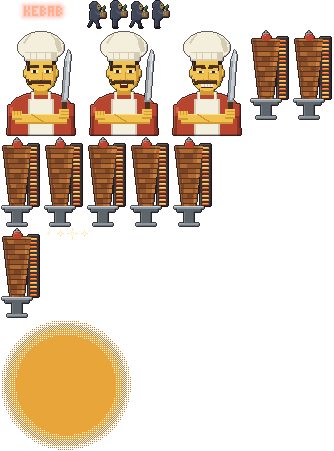
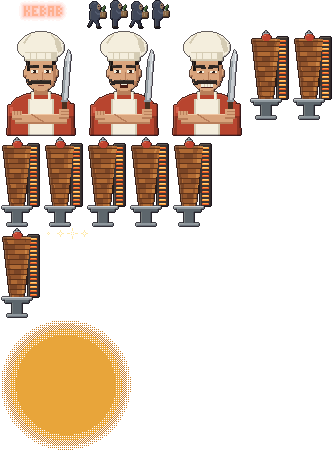
Redraw the crowd at the bar and Chef the way the founders are drawn
Nobody is yellow any more. The twelve at the table have skin of every
shade, hair that falls its own way (two of the founders' cuts, curls, a
knot, long hair, a beanie, a cap, two bald heads), the founders' beard, and
something on each top to tell it from the next. They are still nobody in
particular.

Chef has a skin of his own, black hair and a glint in each eye in the three
pictures of the intro, and his portrait is rebuilt on the head the other
faces share: turned three-quarters and cut by the frame, under the same
toque, brows and moustache, with the apron straps and the knife.

The walker of the intro loses the yellow too, under the hood.

diff --git a/art/bar.px.js b/art/bar.px.js
@@ -315,56 +315,108 @@ const BAR_GRIN = [...gladEyes(0, 1), grid(5, 9, "MxxM\n.MM.")]
   }
 
   // The rest of the table: nobody in particular, and a bit of everybody who
-  // turns up. Black T-shirts, beards, one cap. Their faces are yellow: unlike
-  // the members, nobody here is a likeness.
-  const HAIR = { dark: "#3a2a22", black: "#2b2530", brown: "#5a3a24", blond: "#d8b060", ginger: "#b8602c", grey: "#8f8d8a" }
-  const TEE = { black: "#3a3a44", white: "#e8e2d0", olive: "#7c7c5e", navy: "#34477a", sky: "#a9c4e0", grey: "#858d98", wine: "#8a3a48", green: "#4c8a5c" }
+  // turns up. They are drawn like the founders: skin of every shade, hair that
+  // falls its own way, a beard here and there, and something to tell each top
+  // from the next. Unlike the founders, nobody here is a likeness.
+  const SKIN = { fair: "#f0c6a8", light: "#e4b08c", tan: "#d09a74", olive: "#bd8862", brown: "#9a6646", dark: "#6f4832" }
+  const LOCKS = { dark: "#3a2a22", black: "#2b2530", brown: "#5a3a24", blond: "#d8b060", ginger: "#b8602c", grey: "#8f8d8a" }
+  const TOP = { black: "#3a3a44", white: "#e8e2d0", olive: "#7c7c5e", navy: "#34477a", sky: "#a9c4e0", grey: "#858d98", wine: "#8a3a48", green: "#4c8a5c" }
+  /** How the hair falls, over the top six rows of the head: two of the founders' cuts, and curls. */
+  const CUT = {
+    swept: HAIR.david,
+    mop: HAIR.christophe,
+    curls: {
+      front: `
+        .KLKKLKKLKKLK.
+        KLKKLKKLKKLKKK
+        KKLKKLKKLKKLKK
+        KLKKLKKLKKLKKK
+        KKKKKKKKKKKKKK
+        KKZHHZHHHZHHKK`,
+      back: `
+        .KLKKLKKLKKLK.
+        KLKKLKKLKKLKKK
+        KKLKKLKKLKKLKK
+        KLKKLKKLKKLKKK
+        KKLKKLKKLKKLKK
+        KLKKLKKLKKLKKK`,
+    },
+  }
+  // What each one wears on top of the shared body. Everything is placed on the
+  // figure, whose head starts one row down.
   const CROWD = {
     // Facing you, behind the table.
-    c1: { view: "f", hair: HAIR.dark, shirt: TEE.black, beard: true },
-    c2: { view: "f", hair: HAIR.brown, shirt: TEE.white, glasses: true },
-    c3: { view: "f", bald: true, shirt: TEE.black, beard: HAIR.brown },
-    c4: { view: "f", hair: HAIR.ginger, shirt: TEE.sky },
-    c5: { view: "f", hair: HAIR.black, shirt: TEE.olive, beard: true },
-    c6: { view: "f", hair: HAIR.blond, shirt: TEE.wine, long: true },
+    // A black T-shirt with a small white mark.
+    c1: { view: "f", skin: SKIN.tan, hair: LOCKS.black, cut: "mop", shirt: TOP.black, beard: true, worn: [grid(8, 14, "xx")] },
+    // Glasses, and a shirt with its collar open.
+    c2: {
+      view: "f", skin: SKIN.fair, hair: LOCKS.brown, cut: "swept", shirt: TOP.white,
+      worn: [grid(5, 12, "cHHc\n.cc."), rect(5, 7, 4, 1, "s"), px(2, 7, "s"), px(11, 7, "s")],
+    },
+    // Bald, bearded, in a hoodie with its cords hanging.
+    c3: { view: "f", skin: SKIN.brown, bald: true, shirt: TOP.black, beard: LOCKS.black, worn: [grid(5, 13, "x..x\nx..x")] },
+    // Ginger curls and a striped top.
+    c4: { view: "f", skin: SKIN.fair, hair: LOCKS.ginger, cut: "curls", shirt: TOP.sky, worn: [rect(3, 14, 8, 1, "x"), rect(3, 16, 8, 1, "x")] },
+    // A mustard beanie, and an overshirt open on a white T-shirt.
+    c5: {
+      view: "f", skin: SKIN.dark, hair: LOCKS.black, shirt: TOP.olive, beard: true, hat: "#d9a441",
+      worn: [grid(5, 12, "xxxx\n.xx.\n.xx.\n.xx.\n.xx.\n.xx.\n.xx."), rect(2, 0, 10, 1, "y"), rect(1, 1, 12, 4, "y"), rect(1, 4, 12, 1, "w")],
+    },
+    // Long fair hair down over the shoulders, and a thin gold chain.
+    c6: {
+      view: "f", skin: SKIN.light, hair: LOCKS.blond, shirt: TOP.wine,
+      worn: [grid(5, 13, "a..a\n.aa."), rect(0, 6, 2, 8, "K"), rect(12, 6, 2, 8, "K"), rect(0, 8, 1, 4, "L"), rect(0, 14, 2, 2, "Z"), rect(12, 14, 2, 2, "Z")],
+    },
     // Their backs to you, in front of it.
-    c7: { view: "b", hair: HAIR.dark, shirt: TEE.navy, cap: "#ece6d6" },
-    c8: { view: "b", hair: HAIR.grey, shirt: TEE.sky },
-    c9: { view: "b", hair: HAIR.black, shirt: TEE.black },
-    c10: { view: "b", hair: HAIR.dark, shirt: TEE.green, long: true },
-    c11: { view: "b", bald: true, shirt: TEE.grey },
-    c12: { view: "b", hair: HAIR.blond, shirt: TEE.white },
+    // A pale cap, worn the right way round.
+    c7: {
+      view: "b", skin: SKIN.light, hair: LOCKS.dark, shirt: TOP.navy, hat: "#ece6d6",
+      worn: [rect(2, 0, 10, 1, "y"), rect(1, 1, 12, 3, "y"), rect(1, 3, 12, 1, "w"), rect(5, 4, 4, 1, "w")],
+    },
+    // Grey hair, and the collar of a shirt.
+    c8: { view: "b", skin: SKIN.fair, hair: LOCKS.grey, shirt: TOP.sky, worn: [rect(4, 12, 6, 1, "D")] },
+    // Black hair tied up in a knot.
+    c9: { view: "b", skin: SKIN.olive, hair: LOCKS.black, shirt: TOP.black, worn: [grid(5, 0, ".KK.\nKLLK")] },
+    // Long dark hair down the back.
+    c10: {
+      view: "b", skin: SKIN.brown, hair: LOCKS.dark, shirt: TOP.green,
+      worn: [rect(1, 10, 12, 4, "K"), rect(2, 14, 10, 1, "Z"), rect(4, 10, 1, 4, "L"), rect(9, 11, 1, 3, "L")],
+    },
+    // Bald, with a crease at the back of the neck.
+    c11: { view: "b", skin: SKIN.tan, bald: true, shirt: TOP.grey, worn: [rect(4, 9, 6, 1, "Y")] },
+    // Fair hair swept over, and a hood down the back.
+    c12: { view: "b", skin: SKIN.fair, hair: LOCKS.blond, cut: "swept", shirt: TOP.white, worn: [grid(4, 12, "cCCCCc\n.cCCc.\n..cc..")] },
   }
   for (const [id, look] of Object.entries(CROWD)) {
-    const hair = look.bald ? [BODY.H, BODY.I, BODY.Y] : [look.hair, lighten(look.hair, 0.25), darken(look.hair, 0.3)]
-    const beard = look.beard === true ? look.hair : look.beard
+    const skin = [look.skin, lighten(look.skin, 0.3), darken(look.skin, 0.2)]
+    // A bald head is skin all the way up.
+    const hair = look.bald ? skin : [look.hair, lighten(look.hair, 0.25), darken(look.hair, 0.3)]
+    const whisker = look.beard === true ? look.hair : look.beard
     pal({
       ...base,
       ...beer,
+      H: tint(skin[0]),
+      I: tint(skin[1]),
+      Y: tint(skin[2]),
+      m: tint(darken(look.skin, 0.45)),
       K: tint(hair[0]),
       L: tint(hair[1]),
       Z: tint(hair[2]),
       C: tint(look.shirt),
       c: tint(darken(look.shirt, 0.24)),
       D: tint(lighten(look.shirt, 0.22)),
-      ...(beard ? { B: tint(beard), F: tint(darken(beard, 0.25)) } : {}),
-      ...(look.cap ? { y: tint(look.cap), w: tint(darken(look.cap, 0.2)) } : {}),
+      ...(whisker ? { B: tint(whisker), F: tint(darken(whisker, 0.25)) } : {}),
+      ...(look.hat ? { y: tint(look.hat), w: tint(darken(look.hat, 0.2)) } : {}),
     })
-    sprite(`_bar_${id}`, { mx: true }, look.view === "f" ? BAR_BUST : BACK)
-    const body = [stamp(`_bar_${id}`, 0, 1)]
-    let worn = []
-    if (look.view === "f") {
-      // The beard runs along the jaw and under the mouth.
-      if (beard) body.push(rect(1, 9, 2, 1, "B"), rect(11, 9, 2, 1, "B"), rect(2, 10, 4, 1, "B"), rect(8, 10, 4, 1, "B"), rect(3, 11, 8, 1, "F"))
-      // Long hair comes down over the shoulders.
-      if (look.long) worn.push(rect(0, 5, 2, 7, "K"), rect(12, 5, 2, 7, "K"), rect(0, 12, 2, 2, "Z"), rect(12, 12, 2, 2, "Z"))
-      if (look.glasses) worn.push(px(3, 7, "x"), px(5, 7, "x"), px(3, 8, "x"), px(5, 8, "x"), px(8, 7, "x"), px(10, 7, "x"), px(8, 8, "x"), px(10, 8, "x"), rect(6, 7, 2, 1, "s"), px(2, 7, "s"), px(11, 7, "s"))
-    } else {
-      if (look.long) worn.push(rect(1, 10, 12, 3, "K"), rect(2, 13, 10, 1, "Z"))
-      if (look.cap) worn.push(rect(2, 1, 10, 3, "y"), rect(2, 3, 10, 1, "w"), rect(5, 4, 4, 1, "w"))
-    }
-    figure(`bar_${id}_0`, { w: 14, h: 19 }, base.k, ...body, ...worn)
-    figure(`bar_${id}_1`, { w: 17, h: 19 }, base.k, ...body, ...(look.view === "f" ? BAR_GRIN : []), ...BAR_RAISED, ...worn)
+    const front = look.view === "f"
+    sprite(`_bar_${id}`, { mx: true }, front ? BAR_BUST : BACK)
+    const body = [
+      stamp(`_bar_${id}`, 0, 1),
+      ...(look.cut ? [grid(0, 1, CUT[look.cut][front ? "front" : "back"])] : []),
+      ...(front && whisker ? whiskers("front", 0, 1) : []),
+    ]
+    figure(`bar_${id}_0`, { w: 14, h: 19 }, base.k, ...body, ...look.worn)
+    figure(`bar_${id}_1`, { w: 17, h: 19 }, base.k, ...body, ...(front ? BAR_GRIN : []), ...BAR_RAISED, ...look.worn)
   }
 }
 

diff --git a/art/intro.px.js b/art/intro.px.js
@@ -471,7 +471,7 @@ sprite("intro_neon", { w: 76 + NEON_REACH * 2, h: 12 + NEON_REACH * 2 }, (c) => 
   const look = {
     k: "#1c1a20",
     h: "#506078", j: "#6c7d98", d: "#3a475c", f: "#c2b28e",
-    H: BODY.H, Y: BODY.Y,
+    H: "#e0aa88", Y: "#b98462",
     B: "#c09058", b: "#8f6638", t: "#e6cb92",
     g: "#6fb257", G: "#447f3c", x: "#f4eedd",
     Q: "#48526a", U: "#30384a", S: "#2a2422",
@@ -537,12 +537,17 @@ sprite("intro_neon", { w: 76 + NEON_REACH * 2, h: 12 + NEON_REACH * 2 }, (c) => 
 // Chef, as you meet him: arms crossed, the long knife in his fist
 // ---------------------------------------------------------------------------
 
-pal({
-  ...BODY,
-  C: "#b8452f", c: "#8c3423", D: "#d4604a",
+// He is nobody's likeness, and is painted like the founders: a skin of his
+// own, black hair, and a glint in each eye.
+const CHEF = {
+  H: "#d9a47c", I: "#efc6a2", Y: "#b87e5a", // skin
+  K: "#2e2622", L: "#4c4038", Z: "#1c1614", // hair, brows and moustache
+  m: "#8a4a3a", M: "#4a1c14",
+  C: "#b8452f", c: "#8c3423", D: "#d4604a", // the shirt
   v: "#c9ced2", V: "#8f989e", W: "#eef3f5", // the blade
   q: "#4a3020", // the handle
-})
+}
+pal({ ...BODY, ...CHEF })
 
 // Everything that is the same on both sides: the hat, the head, the shoulders.
 sprite("_chef_half", { w: 80, h: 104, mx: true }, (c) => {
@@ -649,80 +654,70 @@ CHEF_FACES.forEach((face, i) => {
       c.poly([61, 69, 66, 69, 70, 24, 68, 18, 64, 30], "v")
       c.poly([61, 69, 63, 69, 66, 30, 64, 30], "V")
       c.line(68, 22, 66, 66, "W")
+      // A glint in each eye, on the side of the light.
+      c.px(32, 40, "x")
+      c.px(45, 40, "x")
       face(c)
     },
   )
 })
 
-// Chef's portrait, 32 by 32, as shown beside what he says. The picture above is
-// the one to follow: the same hat, brows, moustache, apron and knife, at the
-// size of the other portraits.
-sprite("_chef_small_half", { w: 32, h: 32, mx: true }, (c) => {
-  // The shoulders, the neck, the apron and its straps.
-  c.poly([3, 32, 5, 28, 10, 26, 16, 26, 16, 32], "C")
-  c.poly([3, 32, 5, 28, 6, 28, 5, 32], "c")
-  c.rect(14, 25, 2, 2, "Y")
-  c.rect(12, 28, 4, 4, "x")
-  c.rect(12, 28, 1, 4, "X")
-  c.rect(12, 26, 1, 2, "x")
-  // The head, with its heavy jaw.
-  c.ellipse(16, 18, 7, 5, "H")
-  c.rect(10, 18, 6, 4, "H")
-  c.ellipse(16, 22, 5, 3, "H")
-  c.rect(8, 17, 1, 2, "H")
-  c.px(8, 18, "Y")
-  c.rect(10, 13, 1, 2, "Z")
-  // The hat: the band, and the cloud on top of it.
-  c.ellipse(16, 6, 8, 4, "x")
-  c.ellipse(10, 8, 3, 3, "x")
-  c.rect(10, 10, 6, 3, "x")
-  c.rect(10, 10, 6, 1, "X")
-  c.rect(12, 11, 1, 2, "X")
-  c.px(8, 10, "X")
-  // Brows, eyes, nose.
-  c.rect(11, 15, 4, 1, "K")
-  c.rect(11, 17, 3, 2, "x")
-  c.rect(12, 17, 1, 2, "k")
-  c.px(14, 21, "Y")
-  // The moustache, turned up at the ends.
-  c.rect(12, 22, 4, 2, "K")
-  c.rect(10, 23, 2, 1, "K")
-  c.rect(9, 21, 1, 2, "K")
-  c.px(15, 25, "m")
-})
-figure(
-  "_chef_small",
-  { w: 32, h: 32 },
-  BODY.k,
-  stamp("_chef_small_half", 0, 0),
-  (c) => {
-    // The far side is in shade, as on the big picture.
-    c.rect(22, 16, 1, 4, "Y")
-    c.rect(21, 20, 1, 3, "Y")
-    c.rect(16, 19, 1, 3, "Y")
-    c.rect(21, 11, 1, 2, "X")
-    c.poly([21, 3, 24, 6, 24, 9, 22, 10, 21, 6], "X")
-    c.rect(19, 28, 1, 4, "X")
-    c.poly([26, 32, 27, 28, 29, 32], "c")
-    // The knife, held upright: only the blade is in the picture.
-    c.rect(26, 14, 2, 18, "v")
-    c.rect(27, 10, 1, 4, "v")
-    c.rect(26, 14, 1, 18, "V")
-    c.rect(27, 12, 1, 18, "W")
+// Chef's portrait, 32 by 32, as shown beside what he says. It is built like
+// the other faces (see faces.px.js): the same head, turned three-quarters and
+// cut by the frame. The picture above is still the one to follow: the same
+// hat, brows, moustache, apron and knife.
+/** The toque: a band, and the great pleated cloud on top of it. */
+const TOQUE = `
+  ..xxxxxxxxxxxxxxxxxxxxxxxxxxx
+  .xxxxxxxxxxxxxxxxxxxxxxxxxxXXX
+  xxxxxxxxxxxxxxxxxxxxxxxxxxxXXXX
+  xxxxxxxxxxxxxxxxxxxxxxxxxxXXXXX
+  .xxxxxxxxxxxxxxxxxxxxxxxxXXXXX
+  ..XxxxxXxxxxxXxxxxxXxxxXXXXX
+  ...xxxxXxxxxxXxxxxxXxxxXXXX
+  ...xxxxXxxxxxXxxxxxXxxxXXXX
+  ...xxxxxxxxxxxxxxxxxxxxXXXX
+  ...XXXXXXXXXXXXXXXXXXXXXXXX`
+/** The moustache: wide, and turned up at the ends. */
+const HANDLEBAR = [grid(9, 21, "K.............K\nKKKKKKKKKKKKKKK\n.KKKKKK.KKKKKK."), grid(11, 22, "LLLL")]
+
+face("portrait_chef", {
+  look: {
+    ...MEMBER,
+    ...CHEF,
+    N: "#8a5638", B: CHEF.Z,
+    e: "#6a4630", E: "#2a1a12",
+    d: "#6a2618", X: "#d5ccb4",
   },
-)
-// Behind him, the disc of the intro on its dark ground.
-sprite("portrait_chef", { w: 32, h: 32 }, (c) => {
-  c.rect(0, 0, 32, 32, "#081726")
-  for (let y = 0; y < 32; y++) {
-    for (let x = 0; x < 32; x++) {
-      const far = Math.hypot(x - 15.5, y - 14.5)
-      if (far < 13.5) c.px(x, y, "#e8a53a")
-      else if (far < 15) { if (dithered(x, y, 0.75)) c.px(x, y, "#e8a53a") }
-      else if (far < 16.5) { if (dithered(x, y, 0.5)) c.px(x, y, "#c9812e") }
-    }
-  }
-}, stamp("_chef_small", -1, -1))
+  ground: [
+    // Behind him, the disc of the intro on its dark ground, and the blade of
+    // the knife he holds upright.
+    (c) => {
+      c.rect(0, 0, 32, 32, "#081726")
+      for (let y = 0; y < 32; y++) {
+        for (let x = 0; x < 32; x++) {
+          const far = Math.hypot(x - 15.5, y - 14.5)
+          if (far < 13.5) c.px(x, y, "#e8a53a")
+          else if (far < 15) { if (dithered(x, y, 0.75)) c.px(x, y, "#e8a53a") }
+          else if (far < 16.5) { if (dithered(x, y, 0.5)) c.px(x, y, "#c9812e") }
+        }
+      }
+      c.rect(28, 8, 3, 24, "#c9ced2")
+      c.rect(28, 8, 1, 24, "#8f989e")
+      c.rect(30, 10, 1, 22, "#eef3f5")
+      c.px(28, 7, "#c9ced2")
+      c.px(29, 6, "#c9ced2")
+      c.px(29, 7, "#c9ced2")
+    },
+  ],
+  eyes: "open",
+  brows: "thick",
+  mouth: "flat",
+  // The straps of the apron, over the shoulders.
+  under: [TEE, grid(6, 28, "xX\n.xX\n.xX\n..xX"), grid(20, 29, ".xX\nxX\nxX"), ...HANDLEBAR],
+  over: [SIDES, TOQUE],
+  shadow: "KLZxX",
+})
 
 // The spit: meat on a rod, turning in front of the grill.
 const SPIT_FRAMES = 8

diff --git a/art/kebab.px.js b/art/kebab.px.js
@@ -1026,9 +1026,8 @@ for (const [kind, draw] of Object.entries(SCREENS)) {
 /**
  * Everyone shares one body. Each of the five members is drawn after their
  * avatar on X, with their agreement: their skin, hair, beard and clothes are
- * in `PEOPLE`. The yellow skin and brown hair below are what is left for
- * anybody else: the crowd at the bar, and whoever joins before their own face
- * is drawn. They are drawn the way a 16-bit role-playing game draws its party:
+ * in `PEOPLE`. Nobody is yellow any more: the skin and hair below are only
+ * what a new member gets before their own face is drawn. They are drawn the way a 16-bit role-playing game draws its party:
  * a large head, eyes two pixels tall, and a costume you can read at a glance.
  * The faces in faces.px.js are the same five people, close up.
  */
@@ -1363,8 +1362,9 @@ const nape = (who) => (who === "david" ? [grid(5, 11, "uuuu")] : [])
  * jaw, round the mouth and under the chin. The face's top-left corner is at
  * x, y. `tight` is for a face screwed up or busy eating: the chin only.
  */
-function beard(who, view, x = 0, y = 0, tight = false) {
-  if (!PEOPLE[who].beard) return []
+const beard = (who, view, x = 0, y = 0, tight = false) => (PEOPLE[who].beard ? whiskers(view, x, y, tight) : [])
+/** The beard itself, in `B` and, under the chin, `F`. */
+function whiskers(view, x = 0, y = 0, tight = false) {
   if (view === "side") return [grid(x + 3, y + 8, "B....\nBBBB.\n.FFF.")]
   return tight
     ? [grid(x + 2, y + 9, "B........B\n.FFFFFFFF.")]
